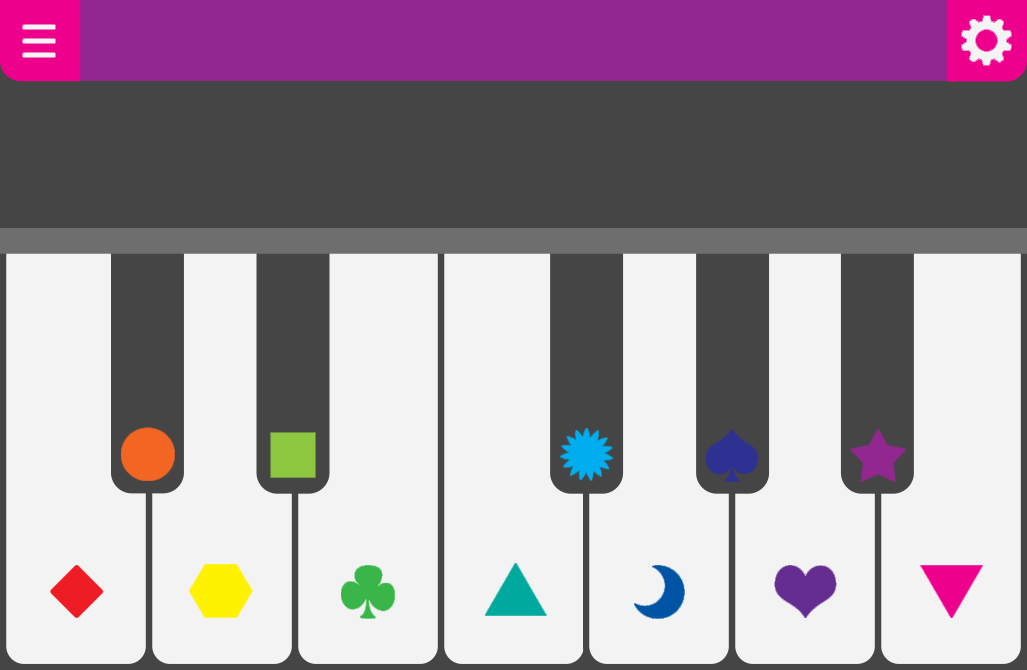
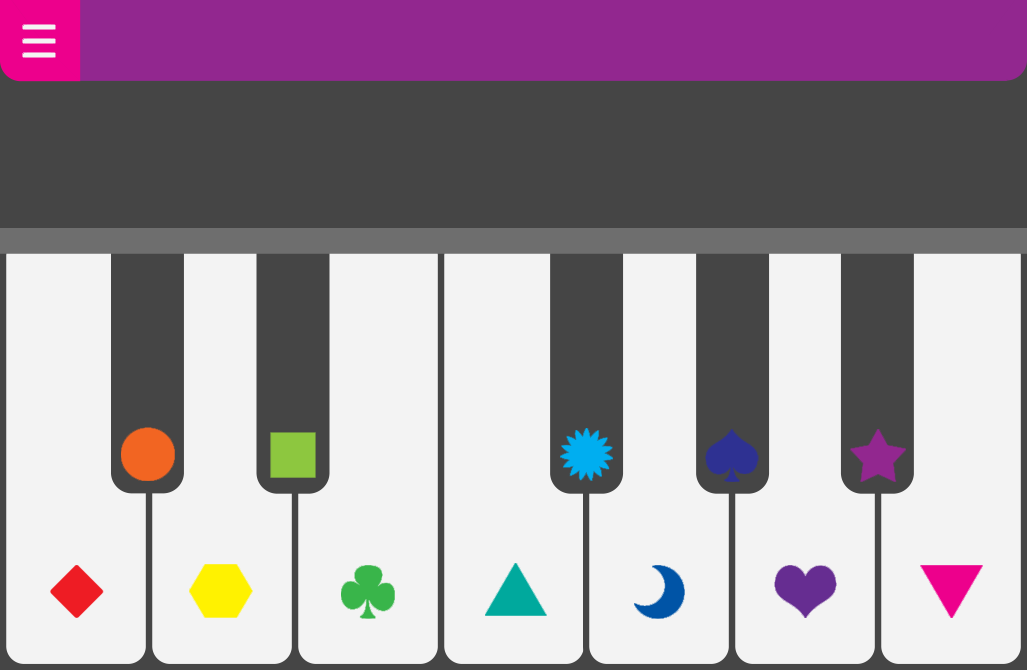
settings button removed from game.html

Changed region(s): [[0.9036, 0.0, 1.0, 0.1194]]

diff --git a/game.html b/game.html
@@ -47,7 +47,7 @@
 	            <img src="images/lives.png" alt="life" class="lifeimg" id="life3">
 	        </div>
             <!--Settings button-->   
-            <button id="settingsbutton"></button>
+            <button id="settingsbutton" style="visibility: hidden;"></button>
 		</div>
 		
 		<!--Countdown to start game-->
